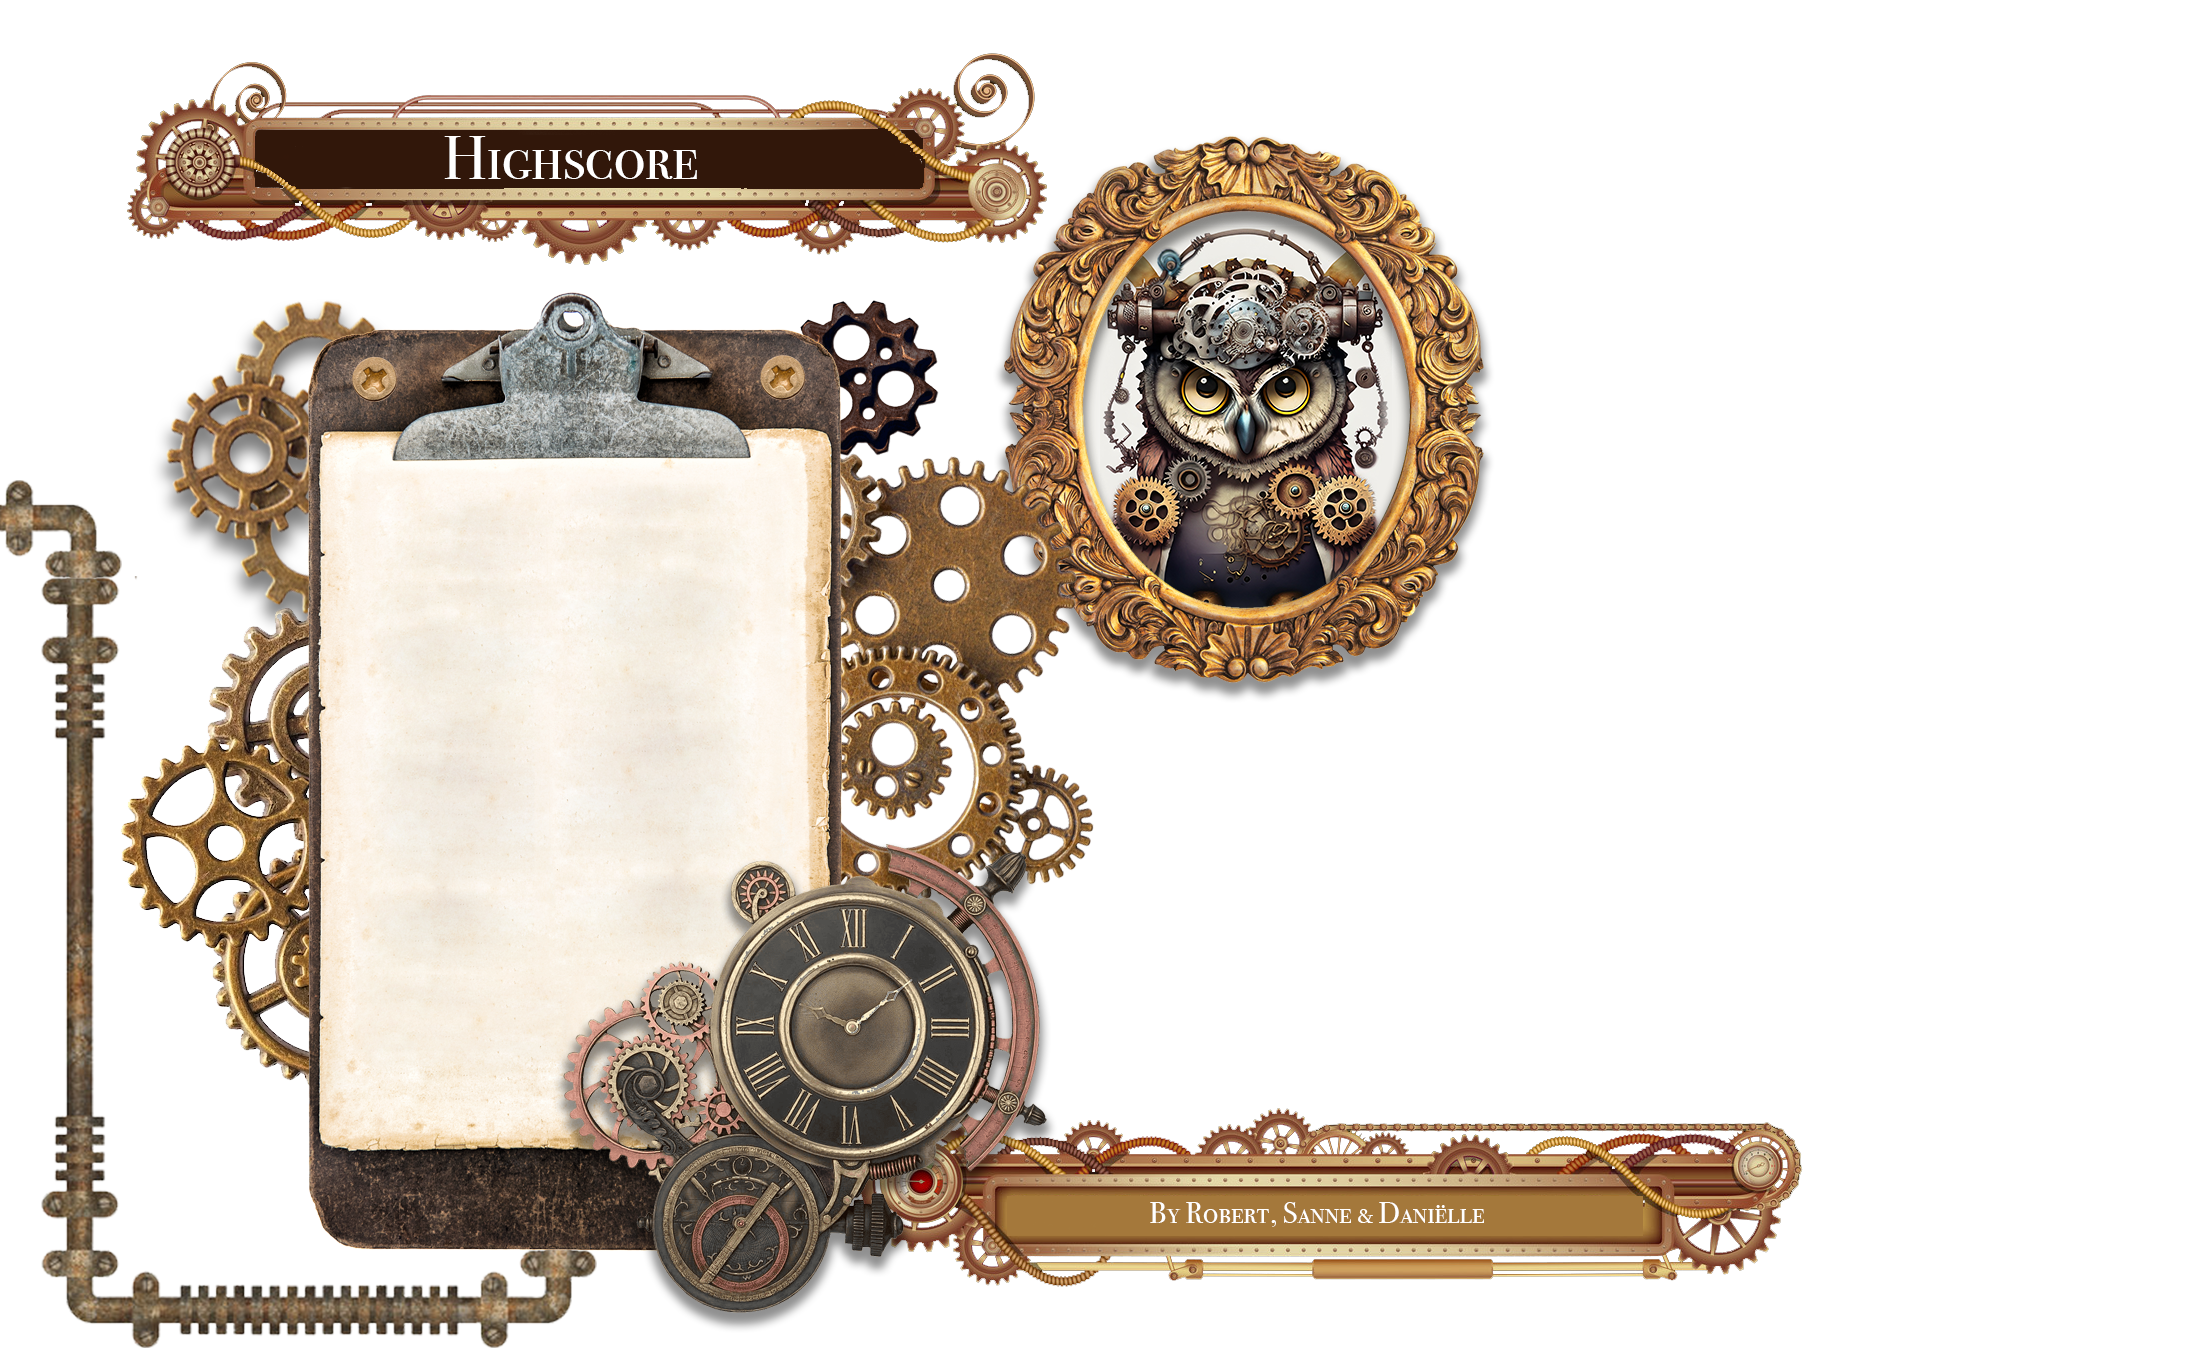
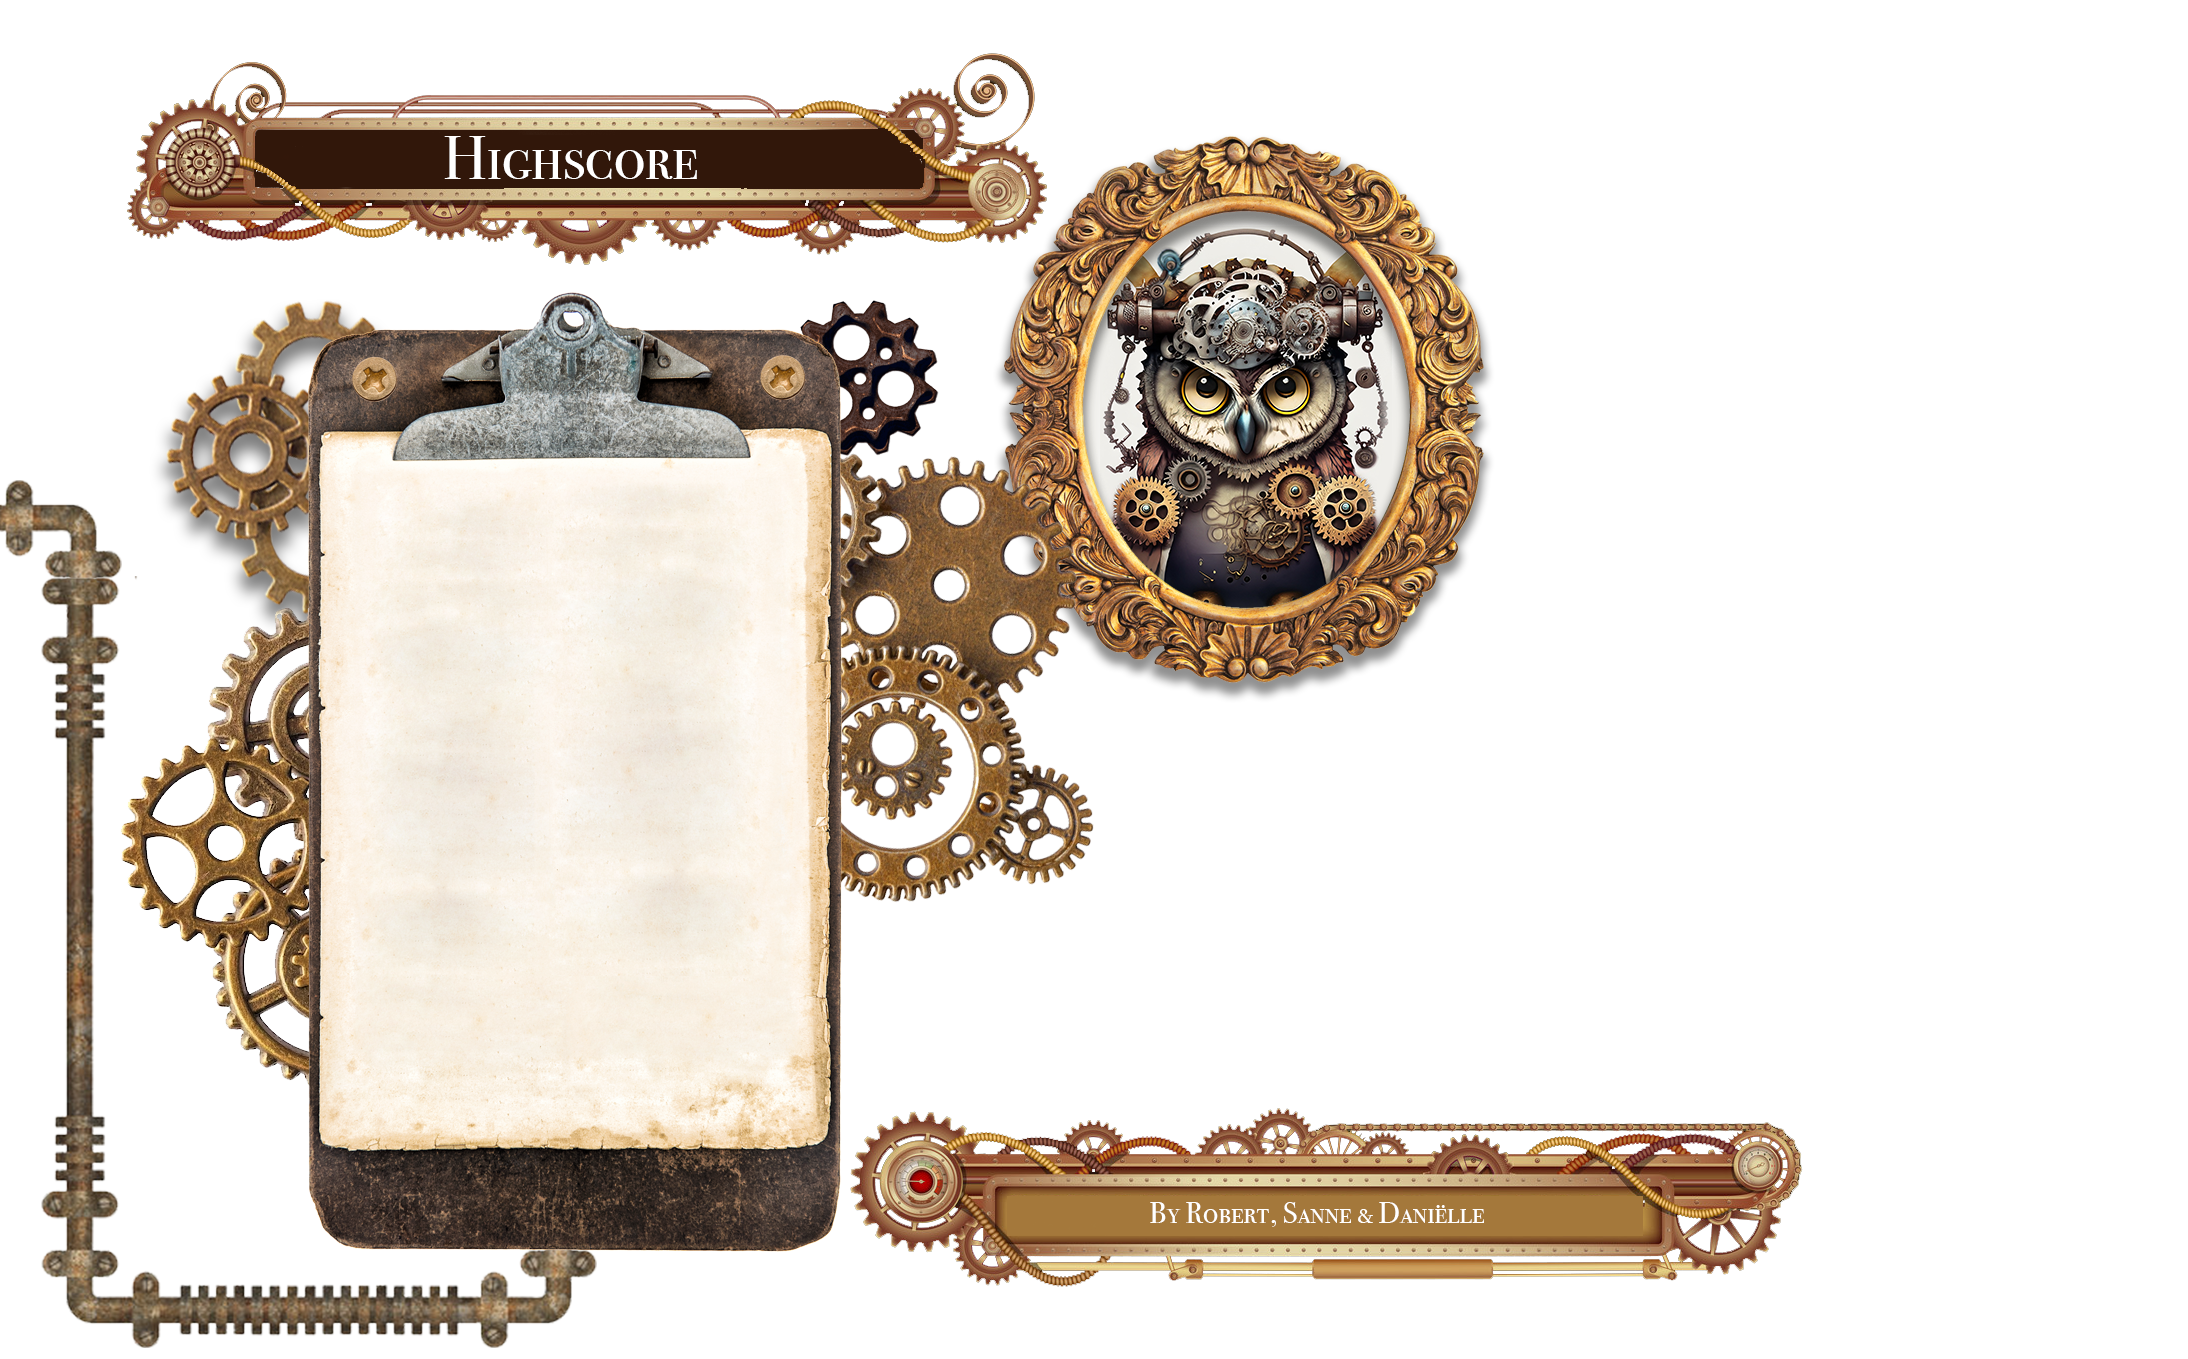
finish!

Changed region(s): [[0.2486, 0.6181, 0.4973, 0.989]]

diff --git a/src/Games/Seconds-Click/seconds-click.scss b/src/Games/Seconds-Click/seconds-click.scss
@@ -1,18 +1,57 @@
 .big-button {
   position: absolute;
-  top: 84%;
-  left: 39%;
+  top: 88.6%;
+  left: 39.4%;
+  width: 94px;
+  animation: pulse-animation 1s infinite;
+
+    @keyframes pulse-animation {
+      0% {
+        filter: drop-shadow(0 0 0 rgba(200, 0, 0, 1.0));
+      }
+      100% {
+        filter: drop-shadow(0 0 40px rgba(200, 0, 0, 0));
+      }
+    }
 }
+
 
 .result{
   position: absolute;
-  left: 67.5%;
-  top: 25%;
+  left: 67.1%;
+  top: 22.6%;
+  font-size: 22px;
 }
 
 .message{
-  width: 500px;
+  width: 347px;
   position: absolute;
-  top: 15%;
-  left: 2%;
+  top: 80%;
+  left: 52%;
+  font-size: 20px;
+
+  .btn{
+    margin-top: 0;
+    background-image: url(/src/assets/finish/end-screen-button.png);
+    background-position: 74%;
+    background-size: 100%;
+    color: black;
+    border: none;
+    width: 198px;
+    background-color: #876b59;
+    cursor: pointer;
+    position: absolute;
+    left: 4vw;
+    height: 59px;
+    font-size: 20px;
+
+    &:hover{
+      cursor: pointer;
+      background-color: #876b59;
+      box-shadow: 4px 4px 12px #222222;
+      animation: jiggle 0.55s ease-in 1;
+      color: #40210d;
+    }
+  }
+  
 }

diff --git a/src/Games/Balloons/Balloons.scss b/src/Games/Balloons/Balloons.scss
@@ -18,15 +18,35 @@
   background-repeat: repeat;
   height: 100vh;
   background-size: 40%;
-  cursor: url("/src/assets/Amimal/can-of-soup.png"), auto;	
+  cursor: url("/src/assets/Amimal/can-of-soup.png");	
 
   .animal-game-screen__image {
     background-repeat: no-repeat;
     background-size: contain;
 
-    .btn { 
-      background-color: red;
-      margin-top: 10px;
-    }
+    .btn{
+      margin-top: 0;
+      background-image: url(/src/assets/finish/end-screen-button.png);
+      background-position: 74%;
+      background-size: 100%;
+      color: black;
+      border: none;
+      width: 198px;
+      background-color: #876b59;
+      cursor: pointer;
+      position: absolute;
+      left: 45vw;
+      height: 59px;
+      font-size: 20px;
+      top: 92vh;
+
+   &:hover{
+     cursor: pointer;
+     background-color: #876b59;
+     box-shadow: 4px 4px 12px #222222;
+     animation: jiggle 0.55s ease-in 1;
+     color: #40210d;
+   }
+ }
   }
 }

diff --git a/src/Finish.scss b/src/Finish.scss
@@ -30,18 +30,24 @@
     .restart{
       position: absolute;
       top: 72vh;
-      color: #902000;    
+      color: black;
       font-size: 33px;
-
+      
+      &:hover {
+        cursor: pointer;
+        background-color: #876b59;
+        box-shadow: 4px 4px 12px #222222;
+        animation: jiggle 0.55s ease-in 1;
+        color: #40210d;
+      }
     }
 }
 
 .highscore {
-  font-family: "Lora", serif;
   position: relative;
-  width: 18vw;
+  width: 17.1vw;
   top: 35vh;
-  left: 14vw;
+  left: 12.5vw;
   max-height: 470px;
   overflow: scroll;
   text-align: left;
@@ -61,4 +67,15 @@
     border-left: none;
 
   }
+}
+
+.klokje{
+  position: absolute;
+  width: 390px;
+  height: 360px;
+  background-image: url(src/assets/finish/klokje.png);
+  background-size: contain;
+  left: 21vw;
+  top: 61vh;
+  background-repeat: no-repeat;
 }

diff --git a/src/Start.scss b/src/Start.scss
@@ -9,7 +9,7 @@
   height: 100vh;
   
   .btn{
-    margin-top: 100px;
+    margin-top: 150px;
     background-image: url("/src/assets/finish/end-screen-button.png");
     background-position: 74%;
     background-size: 100%;
@@ -94,8 +94,8 @@
   height: 150px;
   background-size: contain;
   position: absolute;
-  top: 63vh;
-  left: 3.3vw;
+  top: 62.6vh;
+  left: 3.7vw;
   animation: rotating 5s infinite linear;
   animation-direction: reverse;
 }
@@ -119,7 +119,7 @@
   height: 104px;
   background-size: contain;
   position: absolute;
-  top: 75vh;
+  top: 72.2vh;
   left: 9.2vw;
   animation: rotating 3s infinite linear;
 }

diff --git a/src/Games/Balloons/Balloons.tsx b/src/Games/Balloons/Balloons.tsx
@@ -71,7 +71,7 @@ export function Balloons(props: { advance: () => void, setScore: React.Dispatch<
                 <div className="balloons">
                     {balloons.map((b, i) => <Balloon index={i} key={i} state={b} onClick={() => balloonClicked(i)}/>)}
                 </div>
-                <h2>{message}</h2>
+                {/* <h2>{message}</h2> */}
                 {showStart && <Button onClick={prepareGame}>Start</Button>}
                 {showAdvance && <Button onClick={props.advance}>Finish</Button>}
                 </div>

diff --git a/src/Games/Seconds-Click/seconds-click.tsx b/src/Games/Seconds-Click/seconds-click.tsx
@@ -75,7 +75,7 @@ export function SecondsClick(props: { advance: () => void, setScore: React.Dispa
                 </div>
                 <div className="clock-game-screen__game">
                     <div className="message">
-                    <h2>{message}</h2>
+                    <p className="uitleg">{message}</p>
                     {showStart && <Button onClick={startGame}>Start</Button>}
                     {showAdvance && <Button onClick={props.advance}>Finish</Button>}
                     </div>

diff --git a/src/Finish.tsx b/src/Finish.tsx
@@ -11,6 +11,7 @@ export function Finish(props: { advance: () => void, score: number }) {
             <div className='test highscore'>
                 <HighScore score={props.score}></HighScore>
             </div>
+            <div className="klokje"></div>
         </div>
         <Button className="restart" onClick={props.advance}>Restart!</Button>
     </div>

diff --git a/src/Games/Seconds-Click/Clock.scss b/src/Games/Seconds-Click/Clock.scss
@@ -31,8 +31,8 @@
   height: 600px;
   border-radius: 50%;
   position: absolute;
-  top: 58%;
-  left: 45%;
+  top: 57.6%;
+  left: 44%;
   transform: translate(-58%, -45%);
 }
 
